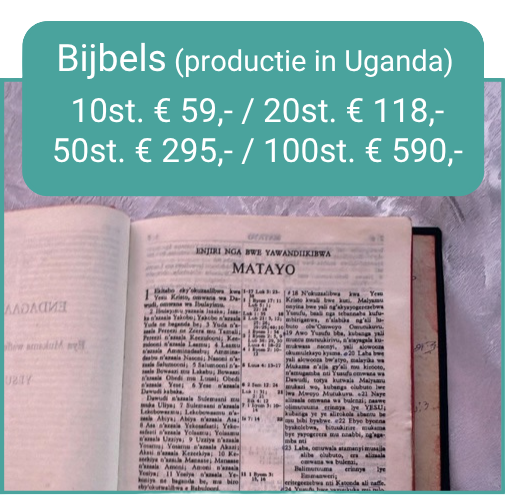
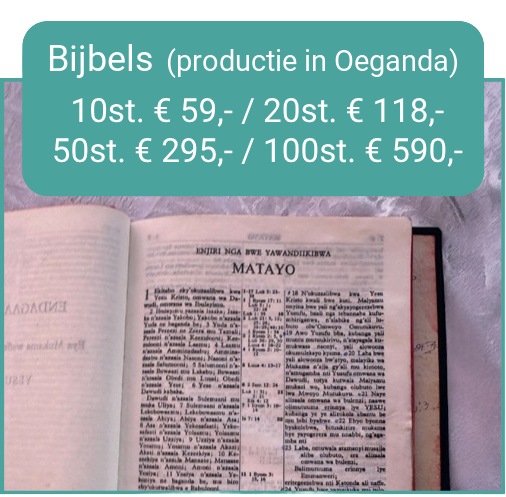
Replace 'Uganda' with 'Oeganda' site-wide (incl. label in sponsoring image); add video to 'Zendingsprojecten'

Changed region(s): [[0.0889, 0.0905, 0.919, 0.1811]]

diff --git a/src/content/news/zendingsprojecten.md b/src/content/news/zendingsprojecten.md
@@ -3,12 +3,16 @@ title: "Zendingsprojecten"
 date: 2026-10-07T12:00:00
 cover: "../../assets/images/2026-10-zendingsprojecten-1.jpg"
 coverAlt: "Impressie van het multifunctionele gebouw in Oost-Oeganda"
-excerpt: "De missie reis Uganda was overweldigend en de impact enorm. In een korte tijd hebben we onder Gods genade heel veel kunnen doen. Het ministryteam bestaande uit de 70 werkers groeit en wordt steeds meer volwassen in hun takenpakket."
+videos:
+  - id: "Qt1-PqSqAcU"
+    title: "Oeganda 2026 in september"
+    poster: "../../assets/images/video-Qt1-PqSqAcU-maxresdefault.jpg"
+excerpt: "De missie reis Oeganda was overweldigend en de impact enorm. In een korte tijd hebben we onder Gods genade heel veel kunnen doen. Het ministryteam bestaande uit de 70 werkers groeit en wordt steeds meer volwassen in hun takenpakket."
 ---
 
-## Missie reis Oost Uganda
+## Missie reis Oost Oeganda
 
-De missie reis Uganda was overweldigend en de impact enorm. In een korte tijd hebben we onder Gods genade heel veel kunnen doen. Het ministryteam bestaande uit de 70 werkers groeit en wordt steeds meer volwassen in hun takenpakket. Bonney woont nu in het opwekkingsgebied en bij hem zullen drie geestelijke zonen eveneens gehuisvest worden. Zo kan hij steeds meer delegeren en zich toeleggen op het leiden van dit megaproject ondersteund door Henry en Emma (de voorgangers van ‘Jeruzalem’ en ‘Samaria’).
+De missie reis Oeganda was overweldigend en de impact enorm. In een korte tijd hebben we onder Gods genade heel veel kunnen doen. Het ministryteam bestaande uit de 70 werkers groeit en wordt steeds meer volwassen in hun takenpakket. Bonney woont nu in het opwekkingsgebied en bij hem zullen drie geestelijke zonen eveneens gehuisvest worden. Zo kan hij steeds meer delegeren en zich toeleggen op het leiden van dit megaproject ondersteund door Henry en Emma (de voorgangers van ‘Jeruzalem’ en ‘Samaria’).
 
 De bouw van het fundament is in volle gang en beseffende dat dit alles ‘handwerk’ is, brengt ons bijna terug in het stenen tijdperk. Er is geen cementmolen, geen kruiwagen en geen slang die water aanvoert.
 
@@ -18,7 +22,7 @@ We hebben uitgebreid de verdere bouwplannen besproken en er staan drie geplande 
 - De tweede fase betreft de bouw van de dakconstructie en het plaatsen van de daken met afwatering voorziening;
 - De derde fase betreft de afbouw (stucwerk, schilderwerk en electra) alsook de oplevering (bestrating rondom).
 
-Het multifunctionele gebouw zal ook worden gebruikt voor seminars over huwelijk, gezin, seksualiteit en kinderen, alsmede voor trainingen over onder andere: bevrijding, genezing, discipelschap en evangelisatie. Ook voor ‘pastor conferences’ biedt het immense mogelijkheden. Wij ervaren dat we steeds meer een goddelijk mandaat hebben gekregen in Oost-Uganda en dat willen we uitnutten zolang het kan.
+Het multifunctionele gebouw zal ook worden gebruikt voor seminars over huwelijk, gezin, seksualiteit en kinderen, alsmede voor trainingen over onder andere: bevrijding, genezing, discipelschap en evangelisatie. Ook voor ‘pastor conferences’ biedt het immense mogelijkheden. Wij ervaren dat we steeds meer een goddelijk mandaat hebben gekregen in Oost-Oeganda en dat willen we uitnutten zolang het kan.
 
 Onze visie is dat in het nieuwe gebouw een groot scherm zal worden geplaatst en wij hier via een satellietverbinding duizenden gelovigen kunnen gaan trainen. Ook het vertonen van films zoals de film van Jezus zal de omgeving doen schudden op haar grondvesten. Vergeet niet dat het gebied vele honderden jaren onder hekserij heeft geleefd en het licht van het evangelie zich nu razendsnel verspreidt. De deur staat open, het is nu de (oogst)tijd.
 

diff --git a/src/content/news/nieuwe-bijbelscholen.md b/src/content/news/nieuwe-bijbelscholen.md
@@ -6,4 +6,4 @@ coverAlt: ""
 excerpt: "In 2024 zijn we in Oost-Oeganda gestart met een trainingsschool voor potentiële geestelijke leiders. Deze leiders worden toegerust om de enorme stroom van inmiddels meer dan 20.000 bekeerlingen te onderwijzen in de fundamenten van het christelijk geloof. De eerste school bestaat uit 125 studenten die in 2025 hun tweede jaar zijn ingegaan — een verdiepingsjaar"
 ---
 
-In 2024 zijn we in Oost-Oeganda gestart met een trainingsschool voor potentiële geestelijke leiders. Deze leiders worden toegerust om de enorme stroom van inmiddels meer dan 20.000 bekeerlingen te onderwijzen in de fundamenten van het christelijk geloof. De eerste school bestaat uit 125 studenten die in 2025 hun tweede jaar zijn ingegaan — een verdiepingsjaar waarin ze verder groeien in Bijbelkennis én in het wandelen met de Heilige Geest. Intussen is ook in januari een tweede school gestart met opnieuw 125 deelnemers. Alles is gericht op het toerusten van zoveel mogelijk leiders. Het lesmateriaal is grotendeels vertaald in het Ugandees en wordt gegeven door drie toegewijde pastors — twee van hen leiden ter plekke een gemeente. De vraag naar Bijbels is enorm en groeit met de dag.
+In 2024 zijn we in Oost-Oeganda gestart met een trainingsschool voor potentiële geestelijke leiders. Deze leiders worden toegerust om de enorme stroom van inmiddels meer dan 20.000 bekeerlingen te onderwijzen in de fundamenten van het christelijk geloof. De eerste school bestaat uit 125 studenten die in 2025 hun tweede jaar zijn ingegaan — een verdiepingsjaar waarin ze verder groeien in Bijbelkennis én in het wandelen met de Heilige Geest. Intussen is ook in januari een tweede school gestart met opnieuw 125 deelnemers. Alles is gericht op het toerusten van zoveel mogelijk leiders. Het lesmateriaal is grotendeels vertaald in het Oegandees en wordt gegeven door drie toegewijde pastors — twee van hen leiden ter plekke een gemeente. De vraag naar Bijbels is enorm en groeit met de dag.
